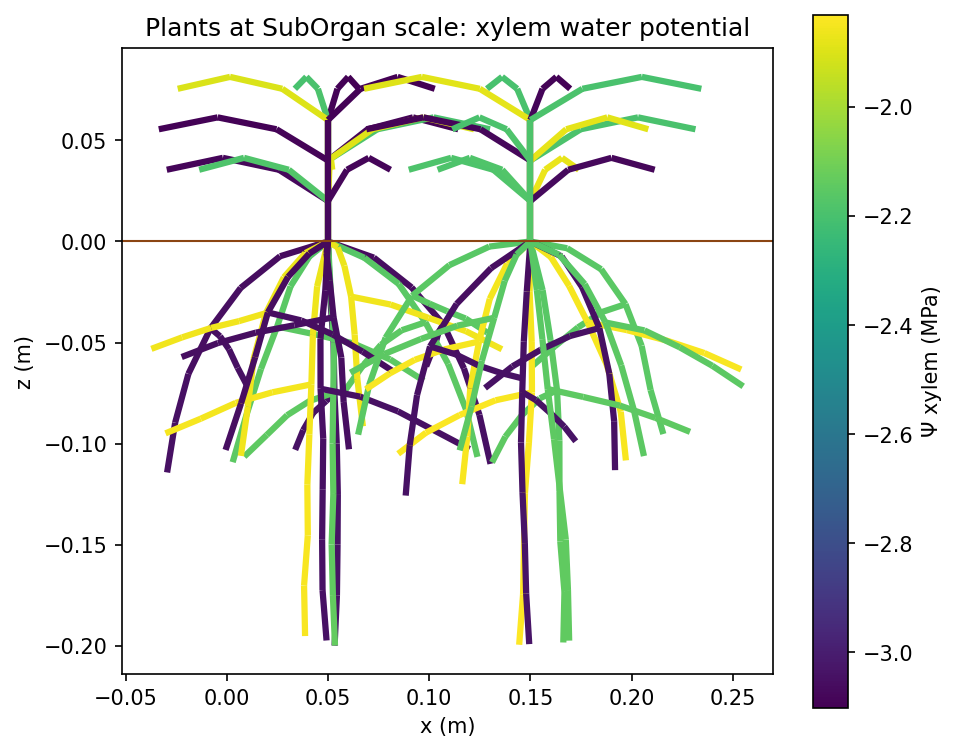
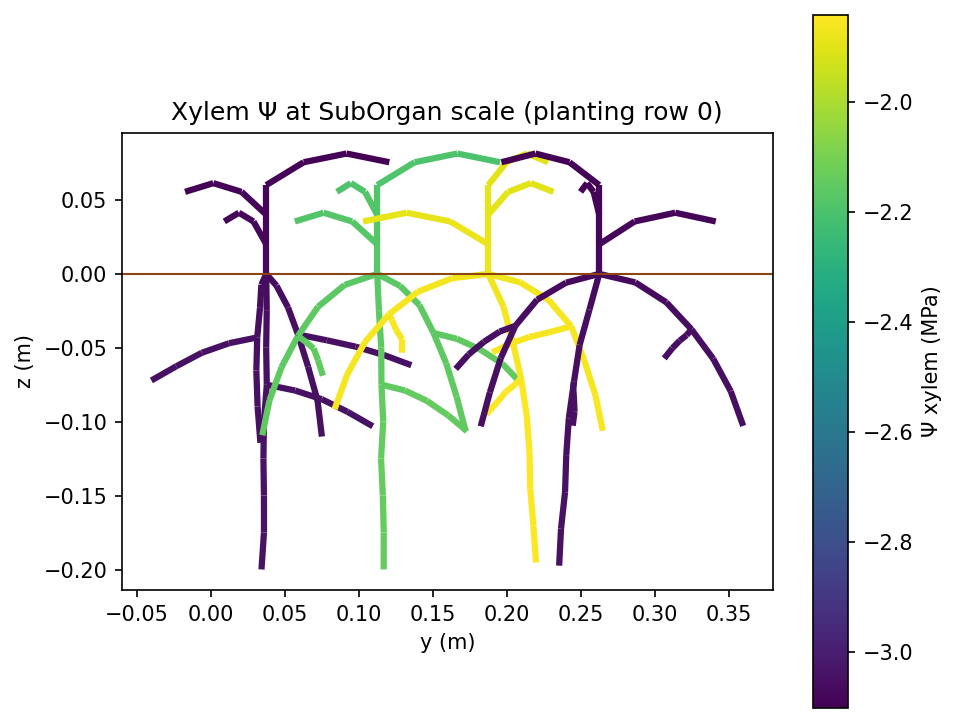
SPAC example: population side views of one planting row

diff --git a/examples/soil_plant_atmosphere/plotting.py b/examples/soil_plant_atmosphere/plotting.py
@@ -1,10 +1,10 @@
 """
 Plots of the example's DataStructures and of the converged water potentials on them (matplotlib, PNG files).
 
-    plant_segments      the plants at SubOrgan scale (side view): each segment coloured by its xylem Ψ
-    plant_anatomy       every Compartment of every segment (side view), its radial and axial edges, coloured by Ψ
+    plant_segments      the plants at SubOrgan scale (side view, or one planting row): segments coloured by xylem Ψ
+    plant_anatomy       every Compartment of every segment (side view, or one planting row), coloured by Ψ
     anatomy_types       one anatomy per organ type (root, stem, leaf): its tissues, Ψ and the radial fluxes
-    soil_slice          a vertical slice of the soil grid through a plant, Ψ coloured, the roots drawn over it
+    soil_slice          a vertical slice of the soil grid (or along a planting row), Ψ coloured, the roots over it
     top_view            the stand from above: the water taken up per soil column, the segments drawn over it
 """
 import numpy as np
@@ -39,60 +39,83 @@ def _xylem_values(ds, name="water_potential"):
     return out
 
 
+def _row(ds, row):
+    """
+    Per SubOrgan entity, whether it belongs to the planting row *row* (the plants of the row-th collar x, rows running
+    along y), and the horizontal axis of the side view: x for every plant (row None), y along a row.
+    """
+    n_segments = len(ds.entity_ids("SubOrgan"))
+    if row is None:
+        return np.ones(n_segments, dtype=bool), 0
+    plant_of_node, segment_of_node = np.asarray(ds.owner("Plant")), np.asarray(ds.owner("SubOrgan"))
+    plant_of_segment = np.empty(n_segments, dtype=int)
+    plant_of_segment[segment_of_node] = plant_of_node
+    collar_x = np.round([ds.mtg.property("x")[int(p)] for p in ds.entity_ids("Plant")], 6)
+    rows = np.unique(collar_x)
+    return collar_x[plant_of_segment] == rows[row], 1
+
+
 def _norm(*arrays):
     values = np.concatenate([np.asarray(a).reshape(-1) for a in arrays])
     return Normalize(vmin=values.min(), vmax=values.max())
 
 
-def plant_segments(data_structures, path, title="Plants at SubOrgan scale: xylem water potential"):
-    """Side view (x, z) of the plants of *data_structures*, each segment coloured by its xylem Ψ."""
+def plant_segments(data_structures, path, row=None, title="Xylem Ψ at SubOrgan scale"):
+    """
+    Side view of the plants of *data_structures*, each segment coloured by its xylem Ψ: every plant in (x, z), or
+    the plants of planting row *row* in (y, z).
+    """
     fig, ax = plt.subplots(figsize=(7, 6))
-    values = [_xylem_values(ds) for ds in data_structures]
+    selections = [_row(ds, row) for ds in data_structures]
+    values = [_xylem_values(ds)[kept] for ds, (kept, _) in zip(data_structures, selections)]
     norm = _norm(*values)
-    for ds, value in zip(data_structures, values):
+    for ds, value, (kept, h) in zip(data_structures, values, selections):
         start, end, _ = _segments(ds)
-        lines = LineCollection(np.stack([start[:, [0, 2]], end[:, [0, 2]]], axis=1), cmap="viridis", norm=norm,
-                               linewidths=3)
+        lines = LineCollection(np.stack([start[kept][:, [h, 2]], end[kept][:, [h, 2]]], axis=1), cmap="viridis",
+                               norm=norm, linewidths=3)
         lines.set_array(value)
         ax.add_collection(lines)
     ax.axhline(0., color="saddlebrown", linewidth=1)
     ax.autoscale()
     ax.set_aspect("equal")
-    ax.set_xlabel("x (m)")
+    ax.set_xlabel("y (m)" if row is not None else "x (m)")
     ax.set_ylabel("z (m)")
-    ax.set_title(title)
+    ax.set_title(title + (f" (planting row {row})" if row is not None else ""))
     fig.colorbar(lines, ax=ax, label="Ψ xylem (MPa)")
     fig.savefig(path, dpi=150, bbox_inches="tight")
     plt.close(fig)
 
 
-def _compartment_positions(ds, spread=0.004):
-    """Side-view positions of the Compartments: along their segment's middle, offset by tissue from the axis."""
+def _compartment_positions(ds, h=0, spread=0.004):
+    """Side-view positions (axis h, z) of the Compartments: at their segment's middle, offset by tissue from the axis."""
     start, end, owner = _segments(ds)
     middle = (start + end) / 2.
     axis = end - start
-    normal = np.c_[-axis[:, 2], axis[:, 0]]                                # perpendicular in the (x, z) plane
+    normal = np.c_[-axis[:, 2], axis[:, h]]                                # perpendicular in the side-view plane
     normal /= np.maximum(np.linalg.norm(normal, axis=1, keepdims=True), 1e-12)
     tissue, organ = np.asarray(ds.get("tissue")).astype(int), np.asarray(ds.get("organ")).astype(int)
     depth = np.array([len(ANATOMY[o]) - 1 - ANATOMY[o].index(t) if o != LEAF else ANATOMY[o].index(t)
                       for o, t in zip(organ, tissue)], dtype=float)            # 0 at the xylem
-    return middle[owner][:, [0, 2]] + spread * depth[:, None] * normal[owner]
+    return middle[owner][:, [h, 2]] + spread * depth[:, None] * normal[owner]
 
 
-def plant_anatomy(ds, path, title="Plant with its anatomies: water potential"):
-    """Every Compartment (side view) with its edges, radial and axial, coloured by Ψ."""
-    position = _compartment_positions(ds)
+def plant_anatomy(ds, path, row=None, title="Ψ of every Compartment"):
+    """Every Compartment (side view, of planting row *row* when given) with its edges, coloured by Ψ."""
+    kept_segments, h = _row(ds, row)
+    kept = kept_segments[np.asarray(ds.owner("SubOrgan"))]
+    position = _compartment_positions(ds, h)
     index = {int(v): i for i, v in enumerate(ds.entity_ids("node"))}
     edges = np.array([[index[int(a)], index[int(b)]] for a, b in ds.edges()])
+    edges = edges[kept[edges[:, 0]] & kept[edges[:, 1]]]
     psi = np.asarray(ds.get("water_potential"))
     fig, ax = plt.subplots(figsize=(8, 7))
     ax.add_collection(LineCollection(position[edges], colors="0.6", linewidths=0.6))
-    points = ax.scatter(position[:, 0], position[:, 1], c=psi, s=10, cmap="viridis", zorder=3)
+    points = ax.scatter(position[kept, 0], position[kept, 1], c=psi[kept], s=10, cmap="viridis", zorder=3)
     ax.axhline(0., color="saddlebrown", linewidth=1)
     ax.set_aspect("equal")
-    ax.set_xlabel("x (m)")
+    ax.set_xlabel("y (m)" if row is not None else "x (m)")
     ax.set_ylabel("z (m)")
-    ax.set_title(title)
+    ax.set_title(title + (f" (planting row {row})" if row is not None else ""))
     fig.colorbar(points, ax=ax, label="Ψ (MPa)")
     fig.savefig(path, dpi=150, bbox_inches="tight")
     plt.close(fig)
@@ -138,25 +161,36 @@ def anatomy_types(ds, path, title="One anatomy per organ type"):
     plt.close(fig)
 
 
-def soil_slice(grid, plant_data_structures, path, y=None, title="Soil water potential, vertical slice"):
-    """The soil's Ψ in the (x, z) slice at *y* (default: the middle), the roots near the slice drawn over it."""
+def soil_slice(grid, plant_data_structures, path, y=None, row=None, title="Soil water potential, vertical slice"):
+    """
+    The soil's Ψ in a vertical slice, the roots near it drawn over it: the (x, z) slice at *y* (default: the middle),
+    or with *row*, the (y, z) slice through planting row *row*.
+    """
     psi = np.asarray(grid.get("water_potential"))
     dx = grid.dx
-    j = psi.shape[1] // 2 if y is None else int(min(max(y // dx[1], 0), psi.shape[1] - 1))
+    if row is not None:
+        ds = plant_data_structures[0]
+        rows = np.unique(np.round([ds.mtg.property("x")[int(p)] for p in ds.entity_ids("Plant")], 6))
+        i = int(min(max(rows[row] // dx[0], 0), psi.shape[0] - 1))
+        values, h, across, label = psi[i, :, :], 1, 0, f"planting row {row}, x cell {i}"
+    else:
+        j = psi.shape[1] // 2 if y is None else int(min(max(y // dx[1], 0), psi.shape[1] - 1))
+        values, h, across, label, i = psi[:, j, :], 0, 1, None, j
+        label = f"y cell {j}"
     fig, ax = plt.subplots(figsize=(7, 5))
-    image = ax.imshow(psi[:, j, :].T, origin="upper", cmap="viridis", aspect="equal",
-                      extent=(0., psi.shape[0] * dx[0], -psi.shape[2] * dx[2], 0.))
-    low, high = j * dx[1], (j + 1) * dx[1]
+    image = ax.imshow(values.T, origin="upper", cmap="viridis", aspect="equal",
+                      extent=(0., values.shape[0] * dx[h], -psi.shape[2] * dx[2], 0.))
+    low, high = i * dx[across], (i + 1) * dx[across]
     for ds in plant_data_structures:
         start, end, owner = _segments(ds)
         roots = np.array(sorted(set(owner[np.asarray(ds.get("organ")) == ROOT])), dtype=int)
-        middle_y = np.mod((start[roots, 1] + end[roots, 1]) / 2., psi.shape[1] * dx[1])
-        roots = roots[(middle_y >= low - dx[1]) & (middle_y < high + dx[1])]          # the roots near the slice
-        ax.add_collection(LineCollection(np.stack([start[roots][:, [0, 2]], end[roots][:, [0, 2]]], axis=1),
+        middle = np.mod((start[roots, across] + end[roots, across]) / 2., psi.shape[across] * dx[across])
+        roots = roots[(middle >= low - dx[across]) & (middle < high + dx[across])]   # the roots near the slice
+        ax.add_collection(LineCollection(np.stack([start[roots][:, [h, 2]], end[roots][:, [h, 2]]], axis=1),
                                          colors="white", linewidths=1.2))
-    ax.set_xlabel("x (m)")
+    ax.set_xlabel("y (m)" if h == 1 else "x (m)")
     ax.set_ylabel("z (m)")
-    ax.set_title(title + f" (y cell {j})")
+    ax.set_title(f"{title} ({label})")
     fig.colorbar(image, ax=ax, label="Ψ soil (MPa)")
     fig.savefig(path, dpi=150, bbox_inches="tight")
     plt.close(fig)

diff --git a/examples/soil_plant_atmosphere/one_plant.py b/examples/soil_plant_atmosphere/one_plant.py
@@ -26,14 +26,15 @@ def scene(output_dirpath=None, tolerance=1e-6, soil_scenario=None):
     return built, stop
 
 
-def plots(built, folder):
+def plots(built, folder, row=None):
+    """The figures; *row*: the side views show only that planting row (for a stand)."""
     os.makedirs(folder, exist_ok=True)
     plants = [population.data_structure for population in built.populations]
     soil = next(model for model in built.environment if isinstance(model, Soil)).grid
-    plotting.plant_segments(plants, os.path.join(folder, "plant_segments.png"))
-    plotting.plant_anatomy(plants[0], os.path.join(folder, "plant_anatomy.png"))
+    plotting.plant_segments(plants, os.path.join(folder, "plant_segments.png"), row=row)
+    plotting.plant_anatomy(plants[0], os.path.join(folder, "plant_anatomy.png"), row=row)
     plotting.anatomy_types(plants[0], os.path.join(folder, "anatomy_types.png"))
-    plotting.soil_slice(soil, plants, os.path.join(folder, "soil_slice.png"))
+    plotting.soil_slice(soil, plants, os.path.join(folder, "soil_slice.png"), row=row)
     plotting.top_view(soil, plants, os.path.join(folder, "top_view.png"))
 
 

diff --git a/examples/soil_plant_atmosphere/population.py b/examples/soil_plant_atmosphere/population.py
@@ -50,4 +50,4 @@ if __name__ == "__main__":
     built.simulate(100)
     summary(built, stop)
     per_plant(built)
-    plots(built, folder)
+    plots(built, folder, row=0)                                 # the side views: the first planting row

diff --git a/devlog.md b/devlog.md
@@ -2042,3 +2042,4 @@ Per-file counts:
 - **Root architecture (your request):** three first-order roots emerging 15° below the horizontal at the collar and bending towards the vertical by a gravitropism coefficient (0.35 per segment), with a seeded tortuosity per plant; laterals with a weaker gravitropism. Converges as before (5 and 6 steps), with balances closed.
 - **Pivot root (your request):** the first of the three first-order roots is a pivot (80° below the horizontal, gravitropism 0.8, 8 segments, down to about 20 cm); the two others spread along ±x and bend down. Converges in 5 and 6 steps.
 - **Longer laterals (your request):** 4 segments of 2 cm (8 cm, from 4.5 cm). Converges in 5 and 6 steps.
+- **Population side views (your request):** the side plots (SubOrgan segments, anatomy graph, soil slice) show only one planting row (row=0), seen along the row in the y–z plane.

diff --git a/examples/soil_plant_atmosphere/README.md b/examples/soil_plant_atmosphere/README.md
@@ -42,6 +42,8 @@ The plants share the soil; their root radial conductances cycle through 0.2, 0.5
 (Ψ_air ≈ −94 MPa), the vapour step limits the flow, so transpiration varies little between plants. Their leaf water
 potentials absorb the difference: the least conductive roots give the lowest leaf Ψ.
 
+The side views show the first planting row (four plants, seen along the row, in the y–z plane).
+
 ![plants](figures/population/plant_segments.png)
 ![soil slice](figures/population/soil_slice.png)
 ![top view](figures/population/top_view.png)
